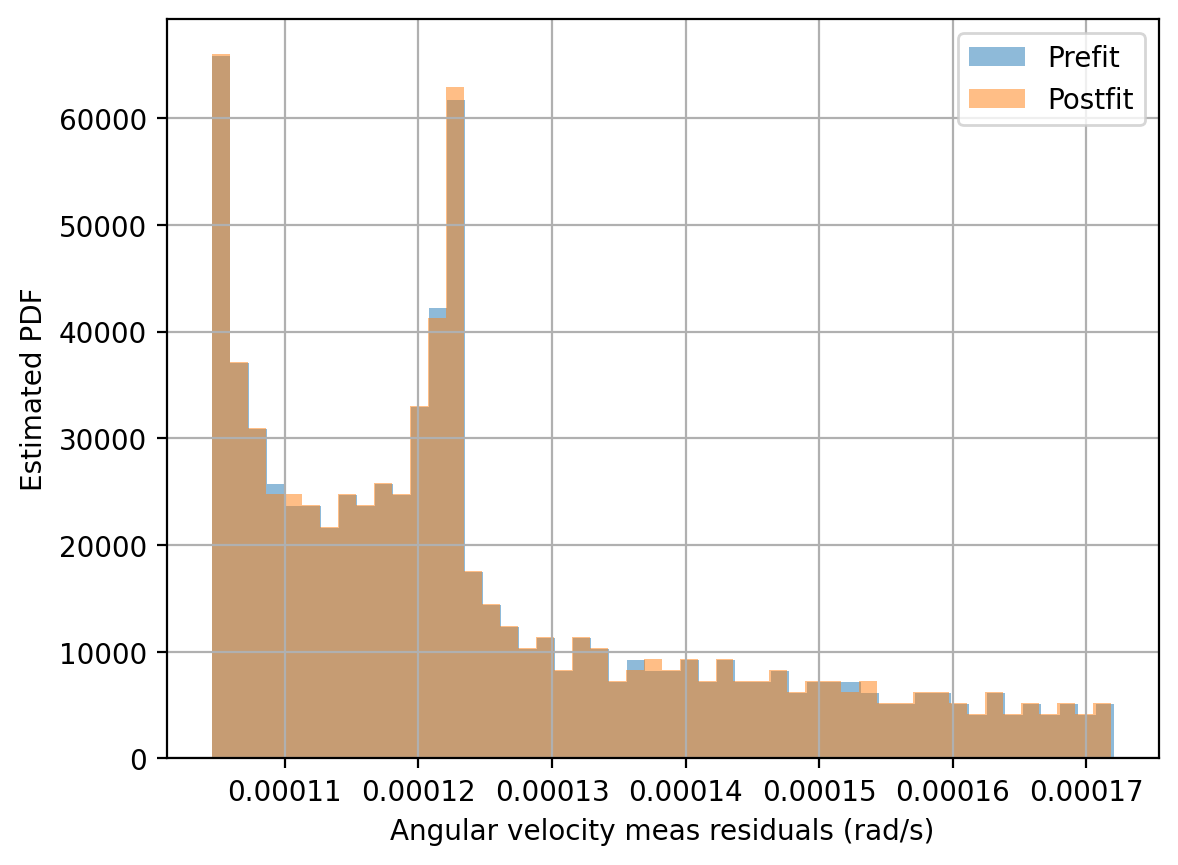
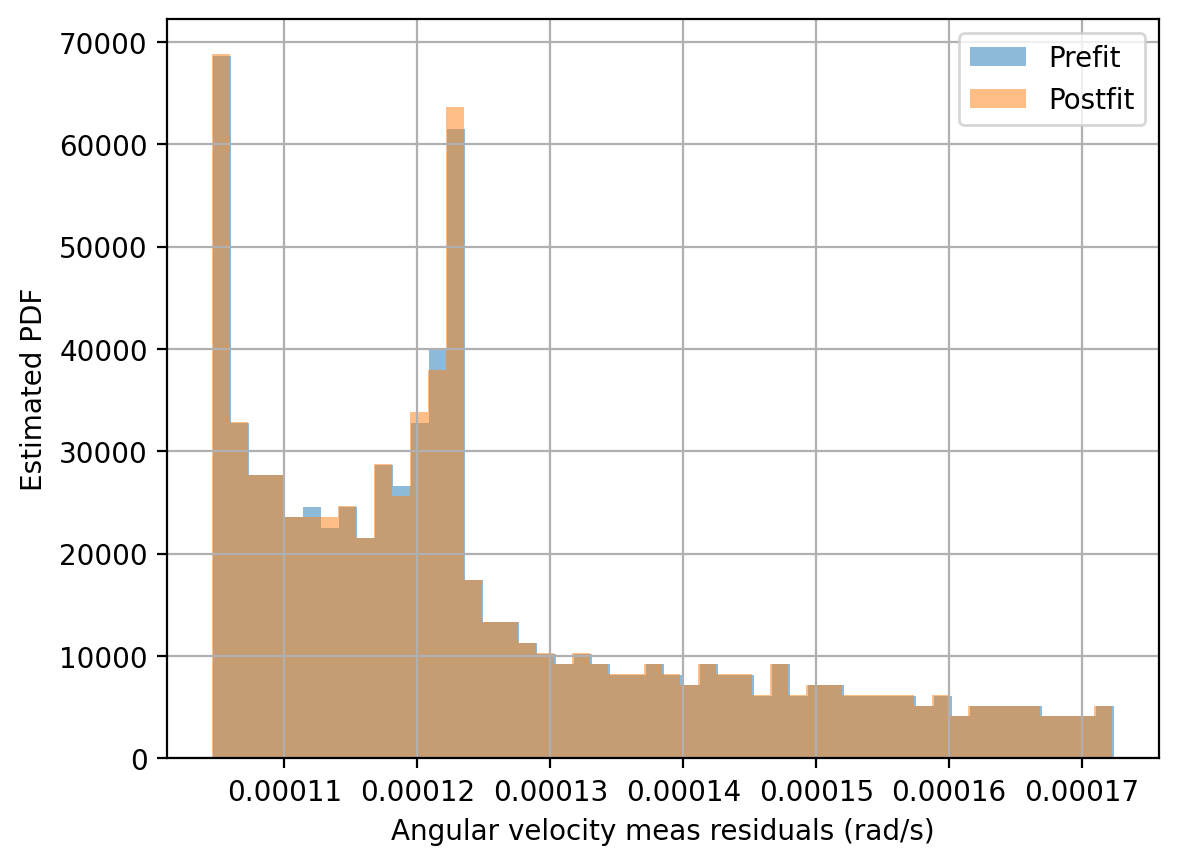
Mahalonobis and Spy Plotting

diff --git a/ps7_mekf_qtr_mrp.py b/ps7_mekf_qtr_mrp.py
@@ -12,6 +12,7 @@ catalog = np.genfromtxt(
     "hipparcos_star_catalog_solutions_downselected_10.txt", delimiter=' ')
 
 numStars = 10 # Hardcoded.
+h_spy_plot = True
 
 # This script is an attempt at creating an MEKF routine using quaternions as
 # the absolute attitude and MRPs as the delta error attitude to be updated
@@ -70,6 +71,7 @@ def mekf_time_update(
 # the same time stamp.
 def mekf_meas_update(
         sc_model, mean, cov, yMeas_Cat_S, yModel_Cat_N, wMeas_B, dcm_S2B, R):
+    global h_spy_plot, file_path
     
     yMeas_S = yMeas_Cat_S[:, 0:3].T
     yModel_N = yModel_Cat_N[:, 0:3].T
@@ -94,16 +96,39 @@ def mekf_meas_update(
     H_zeros = np.zeros((3,3))
     H_zerosN = np.zeros((3 * numStars, 3))
     H = np.block([[H_mrp, H_zerosN, H_zerosN], [H_zeros, H_eye, H_eye]])
+    # print(f"H: {H.shape}")
+
+    if h_spy_plot:
+        # Global parameter
+        fig, ax = plt.subplots()
+        ax.spy(H, markersize=1)
+        ax.set_title("Spy plot of the sensitivity matrix")
+        plt.show()
+        fig.savefig(file_path + 'HMatSpy.png', dpi=200, bbox_inches='tight')
+
+        h_spy_plot = False
     
     # Full residual vector
     prefit_y = norm(yMeas_B - yModel_B, 2)
     prefit_w = norm(wMeas_B - wModel_B, 2)
     
-    
+    # print(f"yMeas_B: {yMeas_B.shape}")
+    # print(f"yModel_B: {yModel_B.shape}")
+    # print(f"wMeas_B: {wMeas_B.shape}")
+    # print(f"wModel_B: {wModel_B.shape}")
+
+    # print(f"prefit_y: {prefit_y.shape}")
+    # print(f"prefit_w: {prefit_w.shape}")
     
     resd_i = np.concatenate([ (yMeas_B - yModel_B).reshape(30),
                               (wMeas_B - wModel_B) ])
     prefit = np.array([ prefit_y, prefit_w ])
+
+    # print(f"resd_i: {resd_i.shape}")
+    # print(f"prefit: {prefit.shape}")
+
+    # print(f"R: {R.shape}")
+    # print(f"cov: {cov.shape}")
     
     # H is (3n + 3) x 9
     
@@ -126,7 +151,34 @@ def mekf_meas_update(
     postfit = np.array([ norm(yMeas_B - post_yModel_B),
                          norm(wMeas_B - post_wModel_B) ])
     
-    return [sc_model, updated_mean, updated_cov, prefit, postfit]
+    # Weight by the Mahalonobis distance (R inverse is the information matrix)
+    # res = (meas - model).T @ Rinv @ (meas - model)
+    Rinv = np.linalg.inv(R)
+    lenR = R.shape[0]
+    RinvStar = Rinv[0:(lenR - 3), 0:(lenR - 3)]
+    RinvGyro = Rinv[(lenR - 3):, (lenR - 3):]
+    # print(f"Rinv: {Rinv.shape}")
+    # print(f"RinvStar: {RinvStar.shape}")
+    # print(f"RinvGyro: {RinvGyro.shape}")
+
+    prefit_star_diff = (yMeas_B - yModel_B).reshape(30)
+    post_star_diff = (yMeas_B - post_yModel_B).reshape(30)
+
+    prefit_mahal_star = prefit_star_diff.T @ RinvStar @ prefit_star_diff
+    postfit_mahal_star = post_star_diff.T @ RinvStar @ post_star_diff
+
+    prefit_gyro_diff = (wMeas_B - wModel_B)
+    post_gyro_diff = (wMeas_B - post_wModel_B)
+
+    prefit_mahal_gyro = prefit_gyro_diff.T @ RinvGyro @ prefit_gyro_diff
+    postfit_mahal_gyro = post_gyro_diff.T @ RinvGyro @ post_gyro_diff
+
+    # Stack the Mahalonobis distances
+    prefit_mahal = np.array([ prefit_mahal_star, prefit_mahal_gyro ])
+    postfit_mahal = np.array([ postfit_mahal_star, postfit_mahal_gyro ])
+    
+    return [sc_model, updated_mean, updated_cov, 
+            prefit, postfit, prefit_mahal, postfit_mahal]
 
 # ===========================================================================
 # Will be using the spacecraft as a container for my "state vector"...
@@ -180,6 +232,9 @@ history_est_ohm_bias = np.zeros(( 3, samples ))  # Part of the state
 
 prefit_samples = np.zeros(( 2, samples ))
 posfit_samples = np.zeros(( 2, samples ))
+
+prefit_samples_mahalonobis = np.zeros(( 2, samples ))
+posfit_samples_mahalonobis = np.zeros(( 2, samples ))
 
 covariance = np.zeros(( 9, 9, samples + 1 ))  # Full history
 
@@ -284,7 +339,8 @@ while now < duration:
         current_mean_bias])
     
     # Perform the MEKF measurement update.
-    [sc_model, updated_mean, updated_cov, pre, post] = mekf_meas_update(
+    [sc_model, updated_mean, updated_cov, pre, post, pre_mahal, post_mahal] = \
+    mekf_meas_update(
         sc_model,
         current_mean,
         current_cov,
@@ -297,6 +353,9 @@ while now < duration:
     # Save prefit and postfit samples
     prefit_samples[:, n] = pre
     posfit_samples[:, n] = post
+
+    prefit_samples_mahalonobis[:, n] = pre_mahal
+    posfit_samples_mahalonobis[:, n] = post_mahal
         
     # At this point, extract out the error MRPs for plotting.
     current_mean_mrp = updated_mean[0:3]
@@ -411,9 +470,10 @@ plt.savefig(file_path + 'ResdOmega.png', dpi=200, bbox_inches='tight')
 
 # Plot histograms of the residuals
 print("Plotting histograms of the residuals")
+nbins = 10
 plt.figure()
-plt.hist(prefit_samples[0,:], bins=50, alpha=0.5, density=True)
-plt.hist(posfit_samples[0,:], bins=50, alpha=0.5, density=True)
+plt.hist(prefit_samples[0,:], bins=nbins, alpha=0.5, density=True)
+plt.hist(posfit_samples[0,:], bins=nbins, alpha=0.5, density=True)
 plt.grid('on')
 plt.xlabel('Star tracker residuals (unitless)'); plt.ylabel('Estimated PDF')
 plt.legend(["Prefit", "Postfit"])
@@ -426,3 +486,21 @@ plt.grid('on')
 plt.xlabel('Angular velocity meas residuals (rad/s)'); plt.ylabel('Estimated PDF')
 plt.legend(["Prefit", "Postfit"])
 plt.savefig(file_path + 'HistOmegaRes.png', dpi=200, bbox_inches='tight')
+
+# Repeat the histograms for Mahalonobis distances version
+print("Plotting histograms of the Mahalonobis residuals")
+plt.figure()
+plt.hist(prefit_samples_mahalonobis[0,:], bins=nbins, alpha=0.5, density=True)
+plt.hist(posfit_samples_mahalonobis[0,:], bins=nbins, alpha=0.5, density=True)
+plt.grid('on')
+plt.xlabel('Covariance weighted star tracker residuals (unitless)'); plt.ylabel('Estimated PDF')
+plt.legend(["Prefit", "Postfit"])
+plt.savefig(file_path + 'HistStarResMahal.png', dpi=200, bbox_inches='tight')
+
+plt.figure()
+plt.hist(prefit_samples_mahalonobis[1,:], bins=50, alpha=0.5, density=True)
+plt.hist(posfit_samples_mahalonobis[1,:], bins=50, alpha=0.5, density=True)
+plt.grid('on')
+plt.xlabel('Covariance weighted angular velocity meas residuals (rad/s)'); plt.ylabel('Estimated PDF')
+plt.legend(["Prefit", "Postfit"])
+plt.savefig(file_path + 'HistOmegaResMahal.png', dpi=200, bbox_inches='tight')
